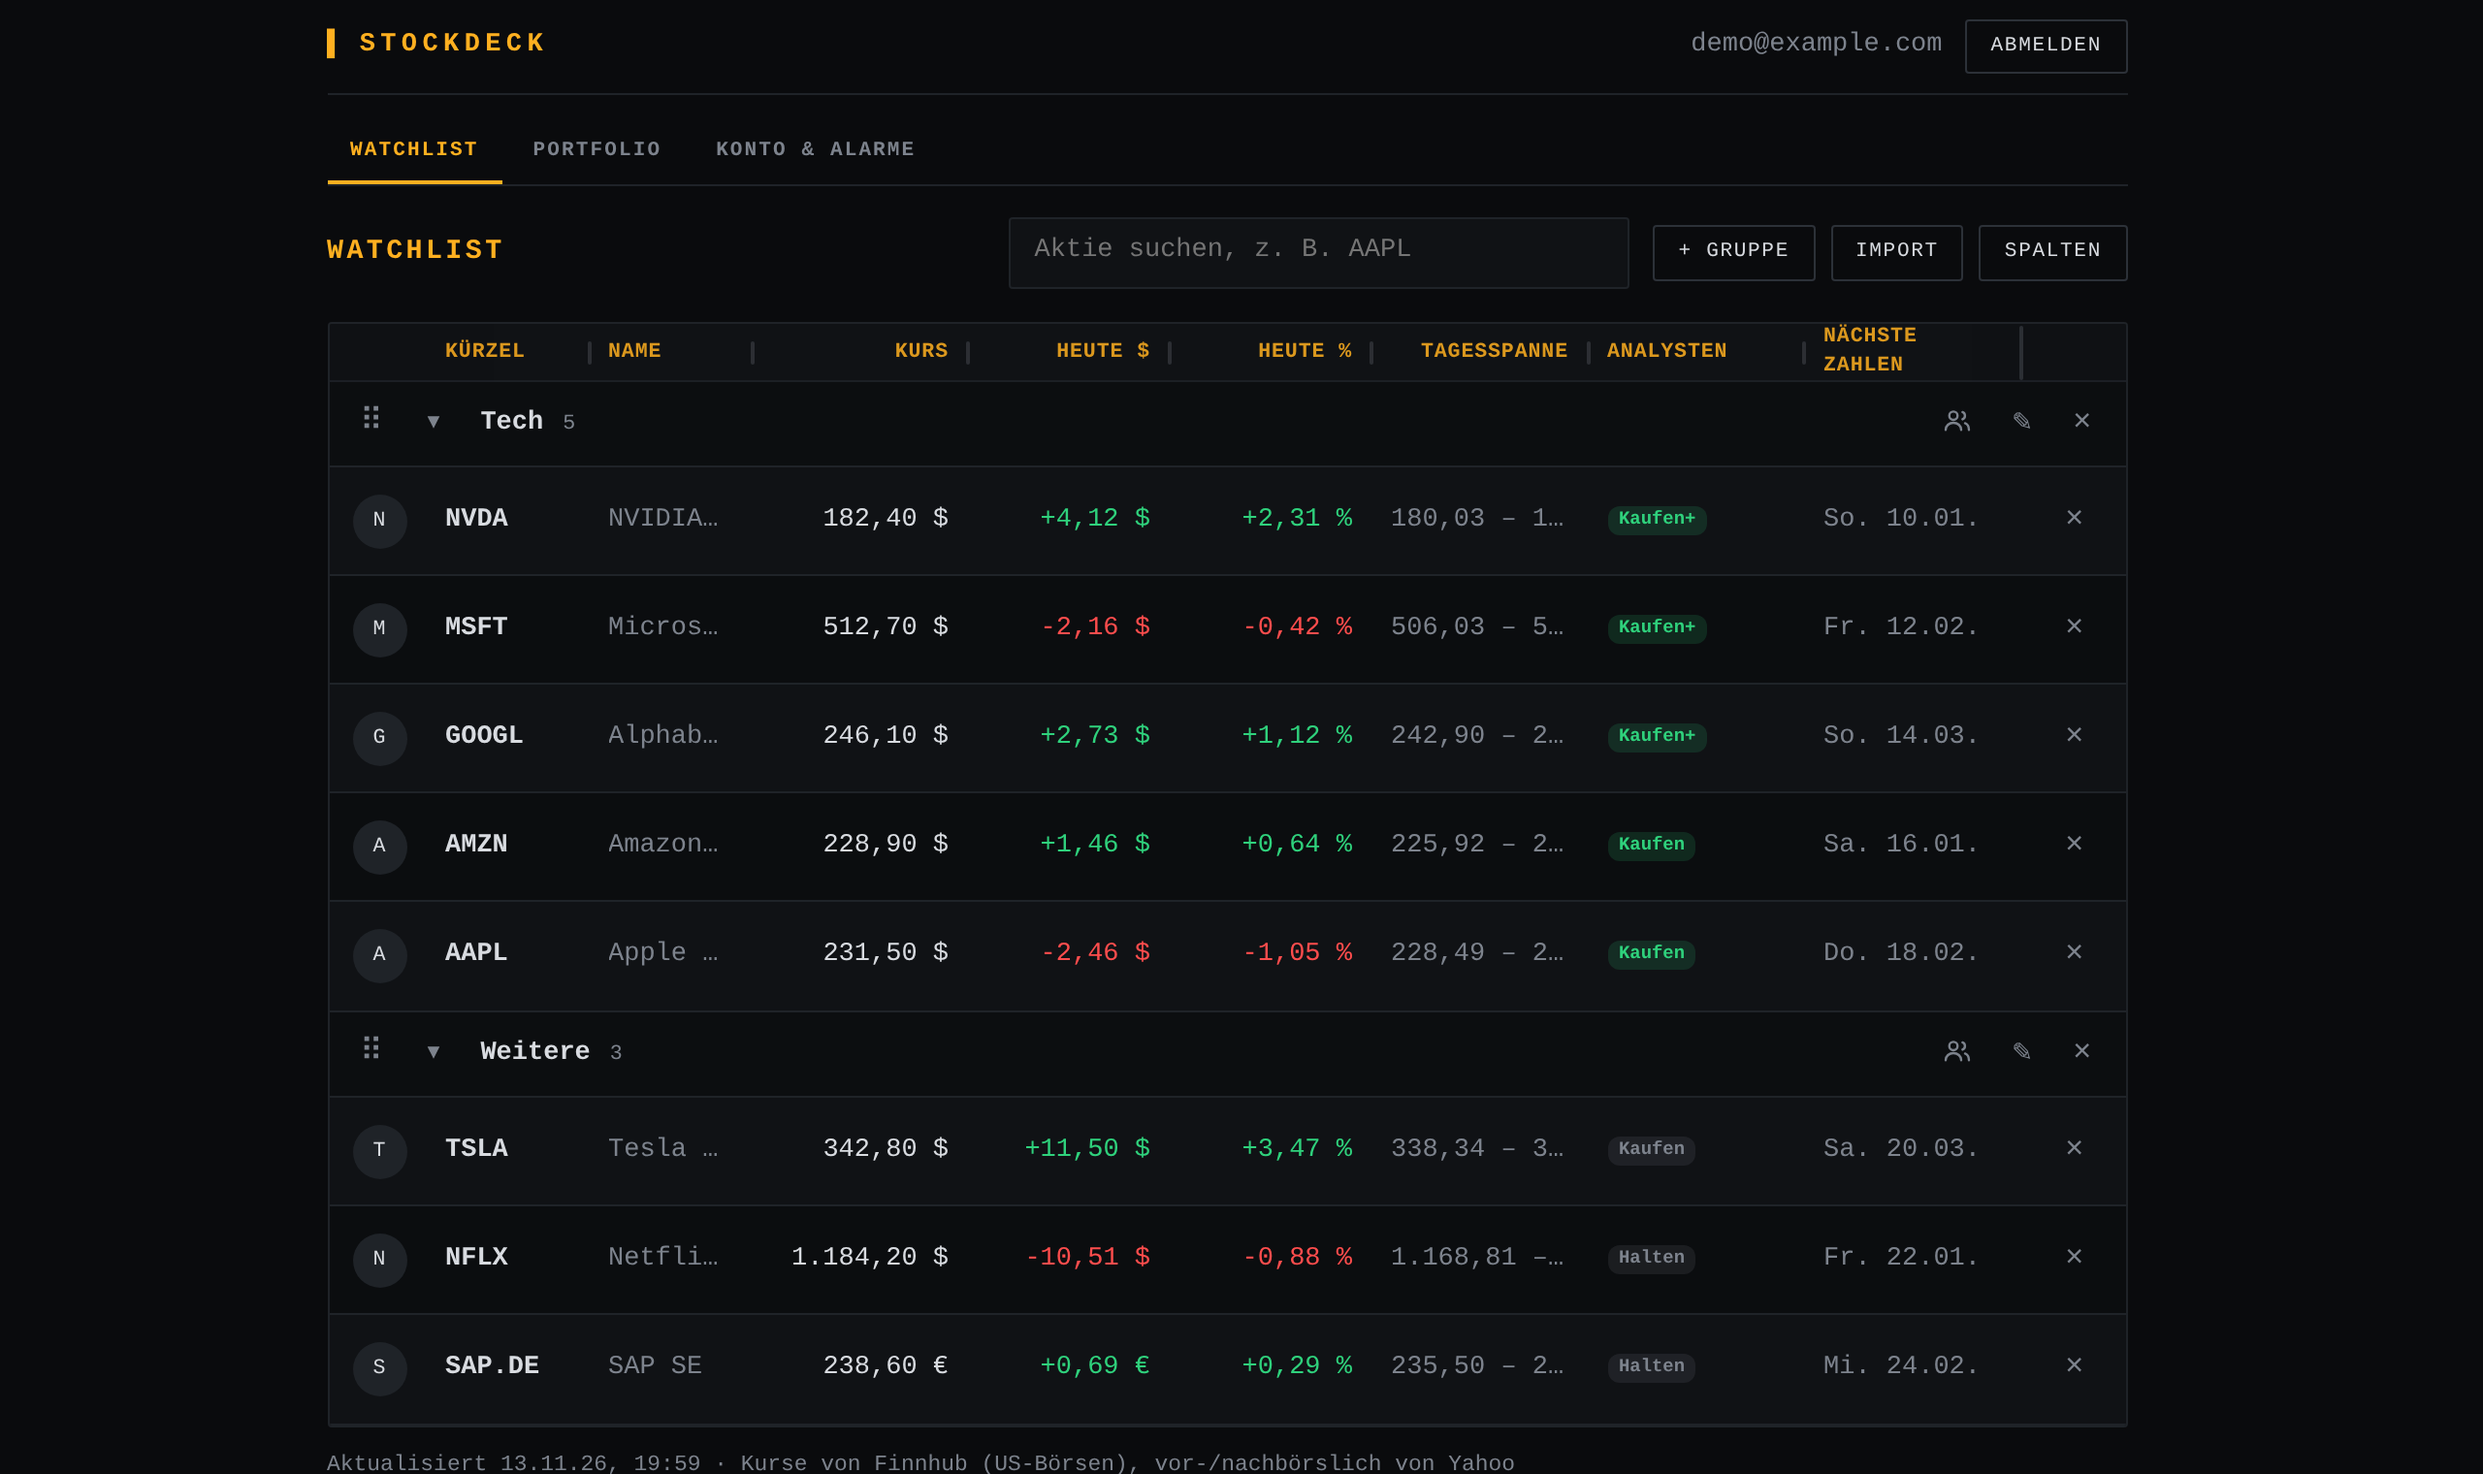
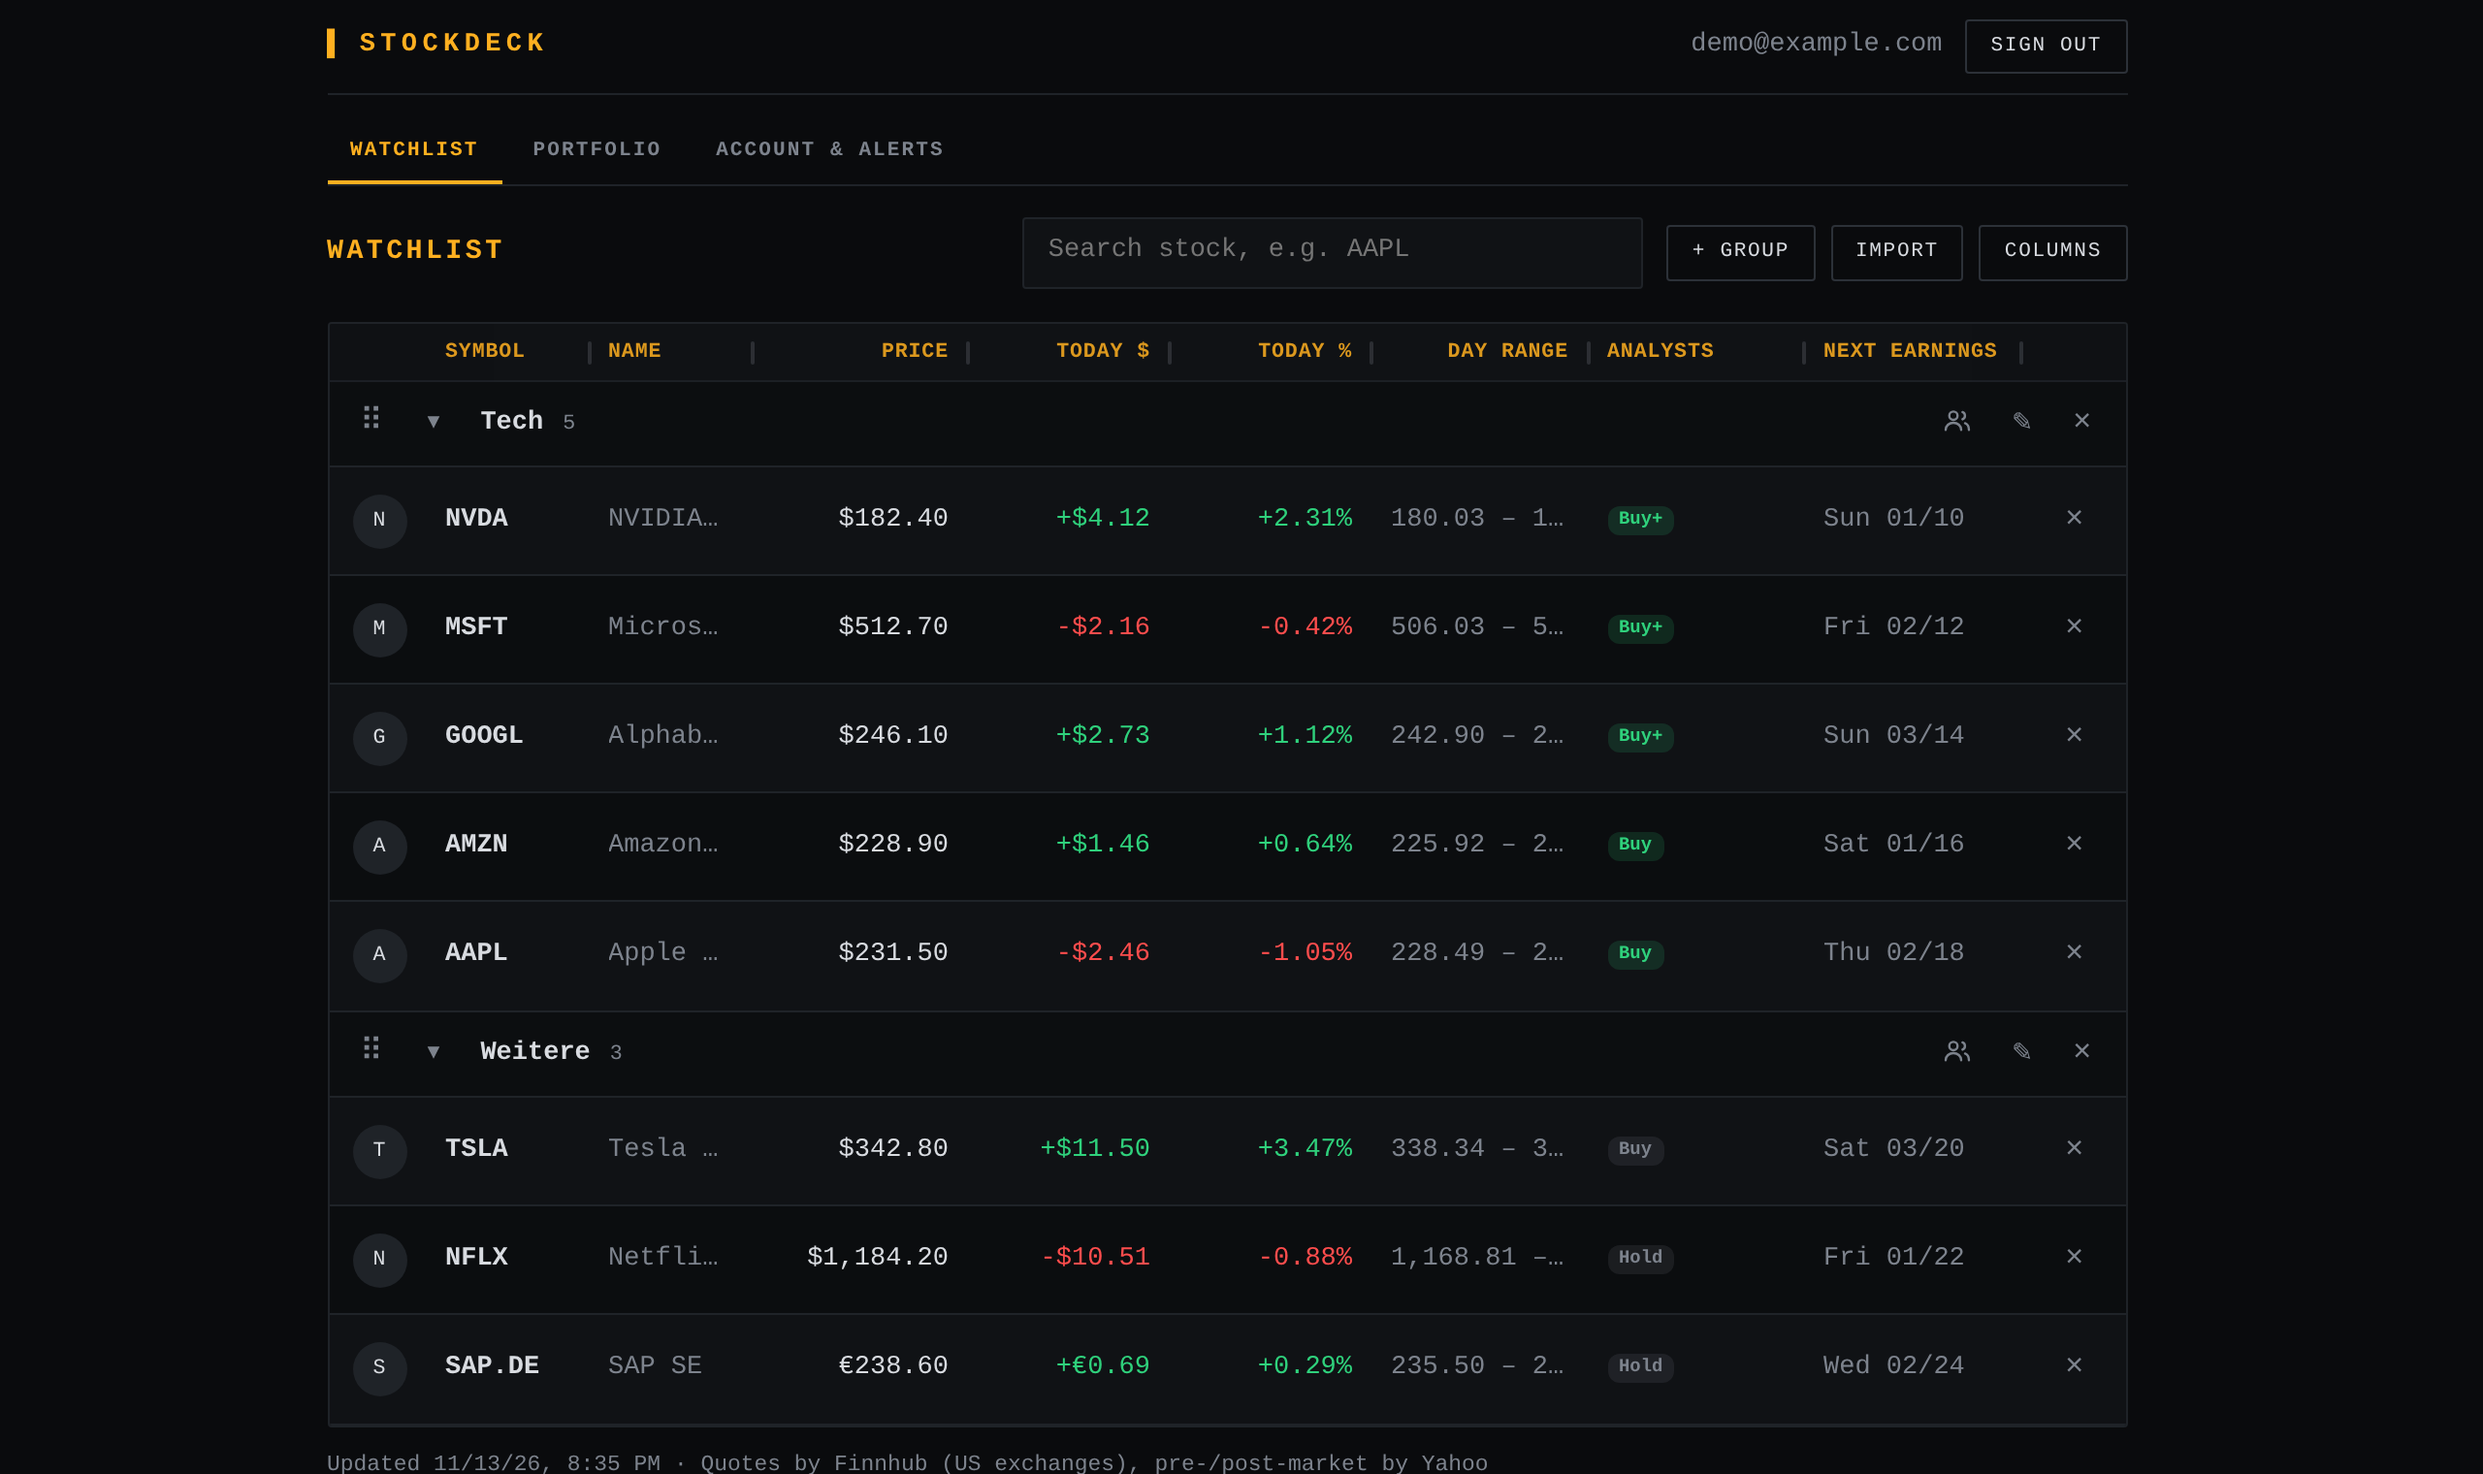
docs: README und Screenshot auf Englisch, Hinweis zu Sprachen

diff --git a/README.md b/README.md
@@ -4,7 +4,7 @@ A self-hosted watchlist and portfolio tracker as an installable web app (PWA): l
 
 ![Stockdeck watchlist (demo data)](docs/screenshot.png)
 
-The UI is in German.
+The UI is available in English and German (browser language by default, switchable in the account settings). Translations live in `src/locales/*.json`; adding a language means adding one file.
 
 **Stack:** React 19 + TypeScript (Vite), PWA · Supabase (Postgres with Row Level Security, Google sign-in, Edge Functions, pg_cron) · any static host (Cloudflare Pages by default) · quotes from [Finnhub](https://finnhub.io), charts and non-US symbols via Yahoo chart data.
 
